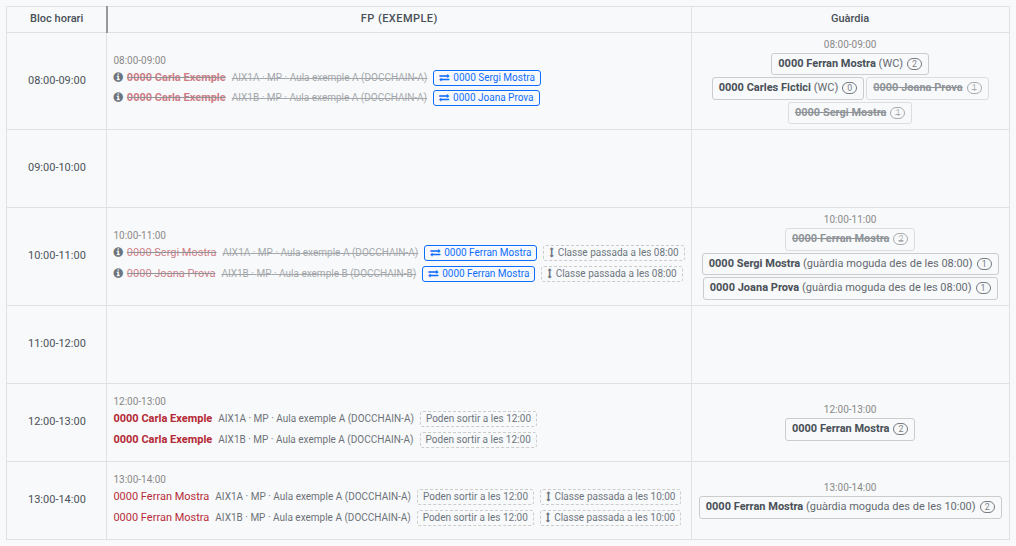
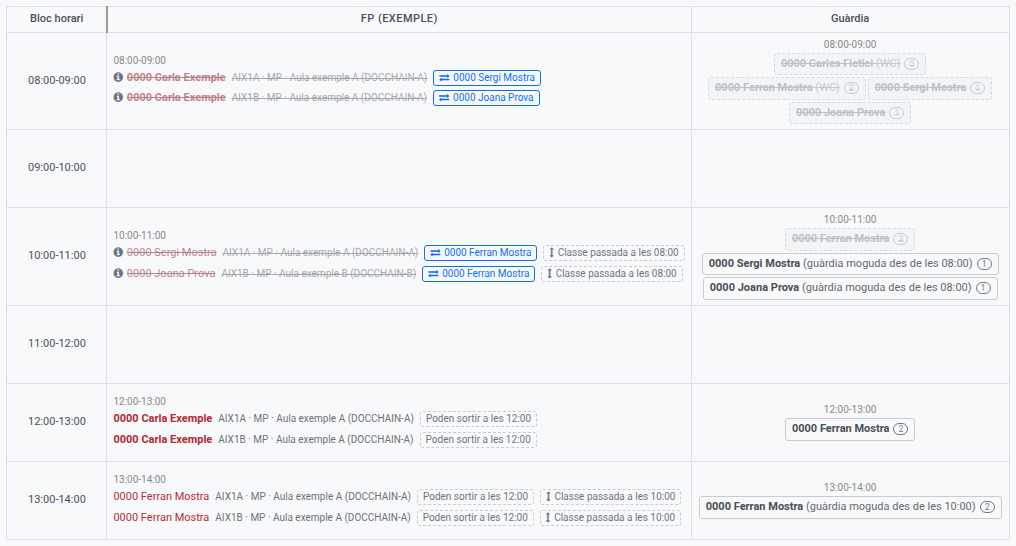
770: every guard duty board screenshot test makes its Monday a school day; picture 13 regenerated with the new badge look

Changed region(s): [[0.7018, 0.0934, 0.9764, 0.2179], [0.7933, 0.4048, 0.8848, 0.467]]

diff --git a/tests/test_docs_screenshots_teachers.py b/tests/test_docs_screenshots_teachers.py
@@ -549,6 +549,7 @@ class TestDocsScreenshotsTeachers(DocsScreenshotMixin, HttpCase):
         laia = self._partial_cover_teacher('0000 Laia Mostra', [{'hour_from': 11, 'hour_to': 12, 'non_teaching': guard, 'name': 'G'}])
         today = self.env['ems.datetime_utils'].get_local_today()
         monday = today + timedelta(days=7 - today.weekday())
+        make_working_day(self, monday)  # a public holiday lists nobody (issue #740)
         self.env['hr.leave'].create({
             'employee_id': anna.id, 'holiday_status_id': self.env.ref('ems.leave_type_justified').id,
             'request_date_from': monday, 'request_date_to': monday,
@@ -671,6 +672,7 @@ class TestDocsScreenshotsTeachers(DocsScreenshotMixin, HttpCase):
         day = self.env['ems.datetime_utils'].get_local_today() + timedelta(days=1)
         while day.weekday() != 0:
             day += timedelta(days=1)
+        make_working_day(self, day)  # a public holiday lists nobody (issue #740)
         for employee, hours in ((berta, (8, 10)), (pau, (9, 10)), (laura, (9, 10))):
             self.env['hr.leave'].create({
                 'employee_id': employee.id, 'holiday_status_id': self.env.ref('ems.leave_type_justified').id,
@@ -767,6 +769,7 @@ class TestDocsScreenshotsTeachers(DocsScreenshotMixin, HttpCase):
         day = self.env['ems.datetime_utils'].get_local_today() + timedelta(days=1)
         while day.weekday() != 0:
             day += timedelta(days=1)
+        make_working_day(self, day)  # a public holiday lists nobody (issue #740)
 
         fixture_ids = department.member_ids.ids
         course_model = type(self.env['ems.course'])
@@ -848,6 +851,7 @@ class TestDocsScreenshotsTeachers(DocsScreenshotMixin, HttpCase):
         day = self.env['ems.datetime_utils'].get_local_today() + timedelta(days=1)
         while day.weekday() != 0:
             day += timedelta(days=1)
+        make_working_day(self, day)  # a public holiday lists nobody (issue #740)
         self.env['hr.leave'].create({
             'employee_id': carla.id, 'holiday_status_id': self.env.ref('ems.leave_type_justified').id,
             'request_date_from': day, 'request_date_to': day, 'ems_full_day': True,
@@ -943,6 +947,7 @@ class TestDocsScreenshotsTeachers(DocsScreenshotMixin, HttpCase):
         day = self.env['ems.datetime_utils'].get_local_today() + timedelta(days=1)
         while day.weekday() != 0:
             day += timedelta(days=1)
+        make_working_day(self, day)  # a public holiday lists nobody (issue #740)
         for employee, hour_from, hour_to in ((laura, 9, 13), (carla, 9, 13), (pau, 8, 11)):
             self.env['hr.leave'].create({
                 'employee_id': employee.id, 'holiday_status_id': self.env.ref('ems.leave_type_justified').id,
@@ -1015,6 +1020,7 @@ class TestDocsScreenshotsTeachers(DocsScreenshotMixin, HttpCase):
         day = self.env['ems.datetime_utils'].get_local_today() + timedelta(days=1)
         while day.weekday() != 0:
             day += timedelta(days=1)
+        make_working_day(self, day)  # a public holiday lists nobody (issue #740)
 
         def absence(hour_from, hour_to):
             leave = self.env['hr.leave'].create({

diff --git a/changelog/770-guard-board-unassignable-grayed.md b/changelog/770-guard-board-unassignable-grayed.md
@@ -12,4 +12,4 @@
 
 ## Guard duty board manual screenshots no longer depend on the real date:
 
-- The screenshot test of the board's two views (manual pictures 01 and 02) used this week's real Monday, so it waited forever for a guard badge whenever that Monday was a public holiday (the board lists nobody then, issue #740). It now pins the clock to a Monday morning that is a school day (`shift_ems_clock`, `make_working_day`), like the other time-dependent tests; both pictures regenerated.
+- The screenshot test of the board's two views (manual pictures 01 and 02) used this week's real Monday, so it waited forever for a guard badge whenever that Monday was a public holiday (the board lists nobody then, issue #740). It now pins the clock to a Monday morning that is a school day (`shift_ems_clock`, `make_working_day`), like the other time-dependent tests; both pictures regenerated. The board's other screenshot tests, which already skipped weekends to the next Monday, now also make sure it is not a public holiday (`make_working_day`), and the "moved guard" picture (13) was regenerated with the new badge look.
